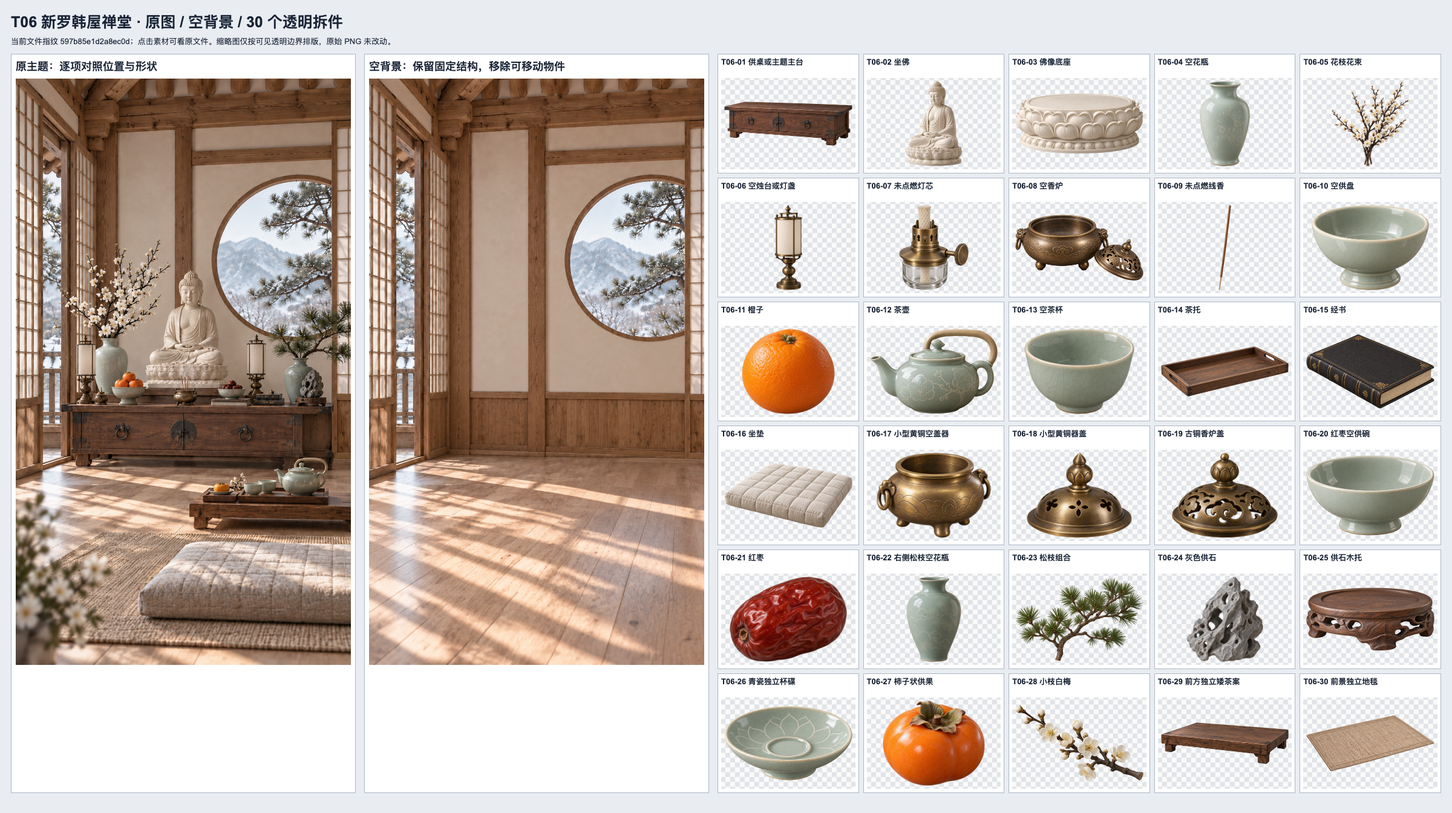
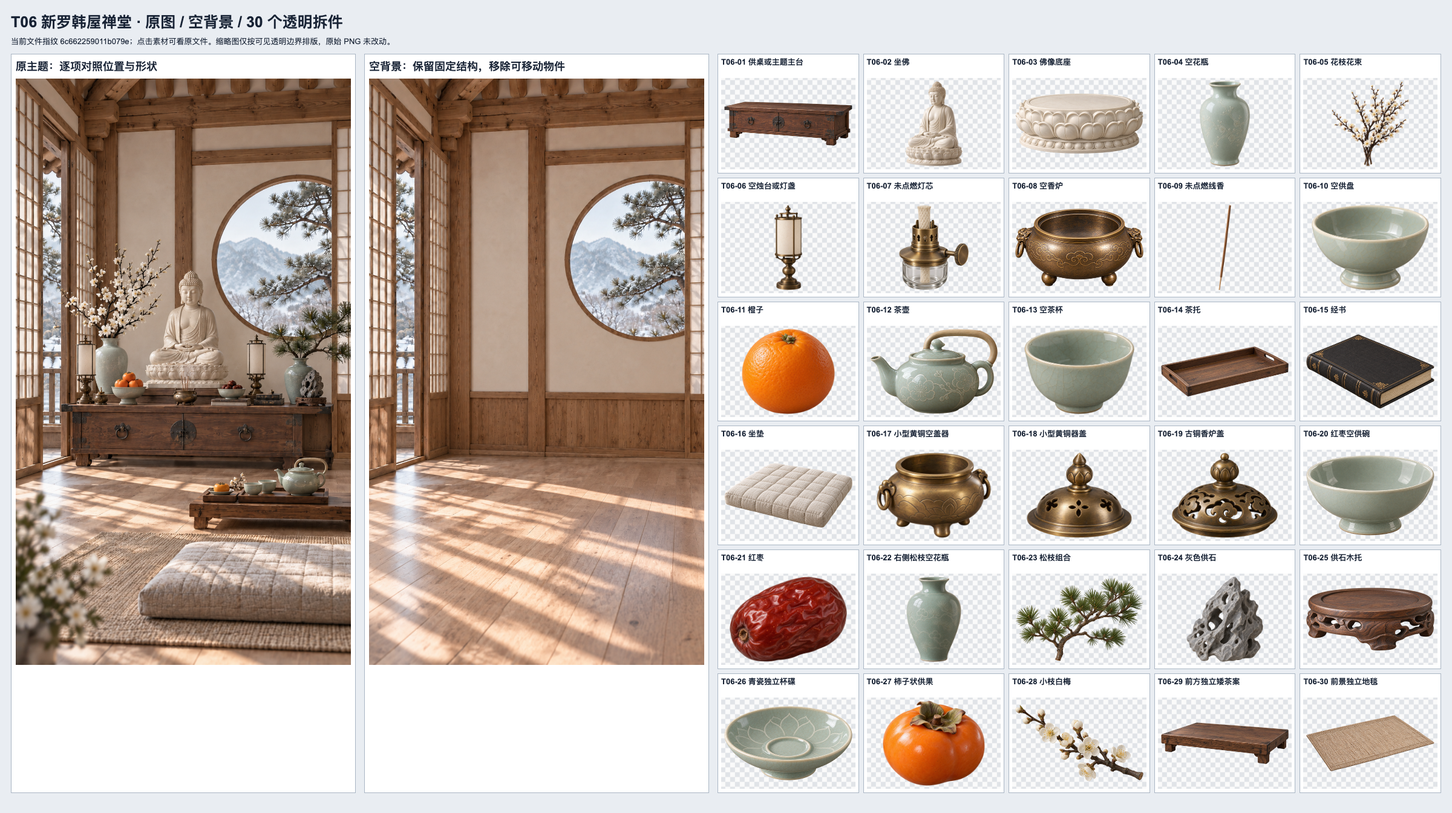
fix: publish first verified file corrections and HTTPS review details

Changed region(s): [[0.6875, 0.2498, 0.8125, 0.3435], [0.0625, 0.0312, 0.25, 0.0625]]

diff --git a/themes/T05/index.html b/themes/T05/index.html
@@ -4,6 +4,6 @@
     .scene{background:white;padding:7px;border:1px solid #aab6c4}.scene b{display:block;font-size:18px;margin-bottom:8px}.scene img{width:100%;height:1080px;object-fit:contain;object-position:top}
     .assets{display:grid;grid-template-columns:repeat(5,1fr);gap:7px;align-content:start}article{border:1px solid #aab6c4;background:white;height:198px;padding:5px;overflow:hidden}
     header{font-size:13px;font-weight:600;height:34px;line-height:16px}article a{display:block;height:151px;background:repeating-conic-gradient(#e1e4e8 0% 25%,#fafafa 0% 50%) 50% / 16px 16px}article img{width:100%;height:100%;object-fit:contain;padding:5px}
-    </style><h1>T05 兰纳柚木佛堂 · 原图 / 空背景 / 29 个透明拆件</h1>
-    <div class="note">当前文件指纹 14fb5777fe269d48；点击素材可看原文件。缩略图仅按可见透明边界排版，原始 PNG 未改动。</div>
-    <div class="layout"><section class="scene"><b>原主题：逐项对照位置与形状</b><img src="source.png"></section><section class="scene"><b>空背景：保留固定结构，移除可移动物件</b><img src="background.png"></section><section class="assets"><article><header>T05-01 供桌或主题主台</header><a href="objects/T05-01.png"><img src="thumbs/T05-01.png"></a></article><article><header>T05-02 坐佛</header><a href="objects/T05-02.png"><img src="thumbs/T05-02.png"></a></article><article><header>T05-04 空花瓶</header><a href="objects/T05-04.png"><img src="thumbs/T05-04.png"></a></article><article><header>T05-05 花枝花束</header><a href="objects/T05-05.png"><img src="thumbs/T05-05.png"></a></article><article><header>T05-06 空烛台或灯盏</header><a href="objects/T05-06.png"><img src="thumbs/T05-06.png"></a></article><article><header>T05-07 未点燃蜡芯 · 补绘功能件</header><a href="objects/T05-07.png"><img src="thumbs/T05-07.png"></a></article><article><header>T05-08 空香炉</header><a href="objects/T05-08.png"><img src="thumbs/T05-08.png"></a></article><article><header>T05-09 未点燃线香</header><a href="objects/T05-09.png"><img src="thumbs/T05-09.png"></a></article><article><header>T05-10 空供盘</header><a href="objects/T05-10.png"><img src="thumbs/T05-10.png"></a></article><article><header>T05-11 橙子</header><a href="objects/T05-11.png"><img src="thumbs/T05-11.png"></a></article><article><header>T05-12 茶壶</header><a href="objects/T05-12.png"><img src="thumbs/T05-12.png"></a></article><article><header>T05-13 空茶杯</header><a href="objects/T05-13.png"><img src="thumbs/T05-13.png"></a></article><article><header>T05-14 茶托</header><a href="objects/T05-14.png"><img src="thumbs/T05-14.png"></a></article><article><header>T05-16 坐垫</header><a href="objects/T05-16.png"><img src="thumbs/T05-16.png"></a></article><article><header>T05-17 雕木金饰背屏</header><a href="objects/T05-17.png"><img src="thumbs/T05-17.png"></a></article><article><header>T05-18 悬挂古铜空灯笼</header><a href="objects/T05-18.png"><img src="thumbs/T05-18.png"></a></article><article><header>T05-19 右侧莲花空瓶</header><a href="objects/T05-19.png"><img src="thumbs/T05-19.png"></a></article><article><header>T05-20 粉莲绿叶花束</header><a href="objects/T05-20.png"><img src="thumbs/T05-20.png"></a></article><article><header>T05-21 白花空供钵</header><a href="objects/T05-21.png"><img src="thumbs/T05-21.png"></a></article><article><header>T05-22 小簇白色供花</header><a href="objects/T05-22.png"><img src="thumbs/T05-22.png"></a></article><article><header>T05-23 绿色柑橘果</header><a href="objects/T05-23.png"><img src="thumbs/T05-23.png"></a></article><article><header>T05-24 单朵白色供花</header><a href="objects/T05-24.png"><img src="thumbs/T05-24.png"></a></article><article><header>T05-25 绿金流苏桌旗</header><a href="objects/T05-25.png"><img src="thumbs/T05-25.png"></a></article><article><header>T05-26 金铜独立杯碟</header><a href="objects/T05-26.png"><img src="thumbs/T05-26.png"></a></article><article><header>T05-27 前景空水钵</header><a href="objects/T05-27.png"><img src="thumbs/T05-27.png"></a></article><article><header>T05-28 漂浮粉莲花</header><a href="objects/T05-28.png"><img src="thumbs/T05-28.png"></a></article><article><header>T05-29 独立荷叶</header><a href="objects/T05-29.png"><img src="thumbs/T05-29.png"></a></article><article><header>T05-30 天然编织地席</header><a href="objects/T05-30.png"><img src="thumbs/T05-30.png"></a></article><article><header>T05-31 右前水钵静水表面图层 · 原位图层</header><a href="objects/T05-31.png"><img src="thumbs/T05-31.png"></a></article></section></div></html>
+    </style><h1>T05 兰纳柚木佛堂 · 原图 / 空背景 / 30 个透明拆件</h1>
+    <div class="note">当前文件指纹 a1679535a5bbbeff；点击素材可看原文件。缩略图仅按可见透明边界排版，原始 PNG 未改动。</div>
+    <div class="layout"><section class="scene"><b>原主题：逐项对照位置与形状</b><img src="source.png"></section><section class="scene"><b>空背景：保留固定结构，移除可移动物件</b><img src="background.png"></section><section class="assets"><article><header>T05-01 供桌或主题主台</header><a href="objects/T05-01.png"><img src="thumbs/T05-01.png"></a></article><article><header>T05-02 坐佛</header><a href="objects/T05-02.png"><img src="thumbs/T05-02.png"></a></article><article><header>T05-04 空花瓶</header><a href="objects/T05-04.png"><img src="thumbs/T05-04.png"></a></article><article><header>T05-05 花枝花束</header><a href="objects/T05-05.png"><img src="thumbs/T05-05.png"></a></article><article><header>T05-06 空烛台或灯盏</header><a href="objects/T05-06.png"><img src="thumbs/T05-06.png"></a></article><article><header>T05-07 未点燃蜡芯 · 补绘功能件</header><a href="objects/T05-07.png"><img src="thumbs/T05-07.png"></a></article><article><header>T05-08 空香炉</header><a href="objects/T05-08.png"><img src="thumbs/T05-08.png"></a></article><article><header>T05-09 未点燃线香</header><a href="objects/T05-09.png"><img src="thumbs/T05-09.png"></a></article><article><header>T05-10 空供盘</header><a href="objects/T05-10.png"><img src="thumbs/T05-10.png"></a></article><article><header>T05-11 橙子</header><a href="objects/T05-11.png"><img src="thumbs/T05-11.png"></a></article><article><header>T05-12 茶壶</header><a href="objects/T05-12.png"><img src="thumbs/T05-12.png"></a></article><article><header>T05-13 空茶杯</header><a href="objects/T05-13.png"><img src="thumbs/T05-13.png"></a></article><article><header>T05-14 茶托</header><a href="objects/T05-14.png"><img src="thumbs/T05-14.png"></a></article><article><header>T05-16 坐垫</header><a href="objects/T05-16.png"><img src="thumbs/T05-16.png"></a></article><article><header>T05-17 雕木金饰背屏</header><a href="objects/T05-17.png"><img src="thumbs/T05-17.png"></a></article><article><header>T05-18 悬挂古铜空灯笼</header><a href="objects/T05-18.png"><img src="thumbs/T05-18.png"></a></article><article><header>T05-19 右侧莲花空瓶</header><a href="objects/T05-19.png"><img src="thumbs/T05-19.png"></a></article><article><header>T05-20 粉莲绿叶花束</header><a href="objects/T05-20.png"><img src="thumbs/T05-20.png"></a></article><article><header>T05-21 白花空供钵</header><a href="objects/T05-21.png"><img src="thumbs/T05-21.png"></a></article><article><header>T05-22 小簇白色供花</header><a href="objects/T05-22.png"><img src="thumbs/T05-22.png"></a></article><article><header>T05-23 绿色柑橘果</header><a href="objects/T05-23.png"><img src="thumbs/T05-23.png"></a></article><article><header>T05-24 单朵白色供花</header><a href="objects/T05-24.png"><img src="thumbs/T05-24.png"></a></article><article><header>T05-25 绿金流苏桌旗</header><a href="objects/T05-25.png"><img src="thumbs/T05-25.png"></a></article><article><header>T05-26 金铜独立杯碟</header><a href="objects/T05-26.png"><img src="thumbs/T05-26.png"></a></article><article><header>T05-27 前景空水钵</header><a href="objects/T05-27.png"><img src="thumbs/T05-27.png"></a></article><article><header>T05-28 漂浮粉莲花</header><a href="objects/T05-28.png"><img src="thumbs/T05-28.png"></a></article><article><header>T05-29 独立荷叶</header><a href="objects/T05-29.png"><img src="thumbs/T05-29.png"></a></article><article><header>T05-30 天然编织地席</header><a href="objects/T05-30.png"><img src="thumbs/T05-30.png"></a></article><article><header>T05-31 右前水钵静水表面图层 · 原位图层</header><a href="objects/T05-31.png"><img src="thumbs/T05-31.png"></a></article><article><header>T05-32 左下近景白花绿叶图层 · 原位图层</header><a href="objects/T05-32.png"><img src="thumbs/T05-32.png"></a></article></section></div></html>

diff --git a/themes/T06/index.html b/themes/T06/index.html
@@ -5,5 +5,5 @@
     .assets{display:grid;grid-template-columns:repeat(5,1fr);gap:7px;align-content:start}article{border:1px solid #aab6c4;background:white;height:198px;padding:5px;overflow:hidden}
     header{font-size:13px;font-weight:600;height:34px;line-height:16px}article a{display:block;height:151px;background:repeating-conic-gradient(#e1e4e8 0% 25%,#fafafa 0% 50%) 50% / 16px 16px}article img{width:100%;height:100%;object-fit:contain;padding:5px}
     </style><h1>T06 新罗韩屋禅堂 · 原图 / 空背景 / 30 个透明拆件</h1>
-    <div class="note">当前文件指纹 597b85e1d2a8ec0d；点击素材可看原文件。缩略图仅按可见透明边界排版，原始 PNG 未改动。</div>
+    <div class="note">当前文件指纹 6c662259011b079e；点击素材可看原文件。缩略图仅按可见透明边界排版，原始 PNG 未改动。</div>
     <div class="layout"><section class="scene"><b>原主题：逐项对照位置与形状</b><img src="source.png"></section><section class="scene"><b>空背景：保留固定结构，移除可移动物件</b><img src="background.png"></section><section class="assets"><article><header>T06-01 供桌或主题主台</header><a href="objects/T06-01.png"><img src="thumbs/T06-01.png"></a></article><article><header>T06-02 坐佛</header><a href="objects/T06-02.png"><img src="thumbs/T06-02.png"></a></article><article><header>T06-03 佛像底座</header><a href="objects/T06-03.png"><img src="thumbs/T06-03.png"></a></article><article><header>T06-04 空花瓶</header><a href="objects/T06-04.png"><img src="thumbs/T06-04.png"></a></article><article><header>T06-05 花枝花束</header><a href="objects/T06-05.png"><img src="thumbs/T06-05.png"></a></article><article><header>T06-06 空烛台或灯盏</header><a href="objects/T06-06.png"><img src="thumbs/T06-06.png"></a></article><article><header>T06-07 未点燃灯芯</header><a href="objects/T06-07.png"><img src="thumbs/T06-07.png"></a></article><article><header>T06-08 空香炉</header><a href="objects/T06-08.png"><img src="thumbs/T06-08.png"></a></article><article><header>T06-09 未点燃线香</header><a href="objects/T06-09.png"><img src="thumbs/T06-09.png"></a></article><article><header>T06-10 空供盘</header><a href="objects/T06-10.png"><img src="thumbs/T06-10.png"></a></article><article><header>T06-11 橙子</header><a href="objects/T06-11.png"><img src="thumbs/T06-11.png"></a></article><article><header>T06-12 茶壶</header><a href="objects/T06-12.png"><img src="thumbs/T06-12.png"></a></article><article><header>T06-13 空茶杯</header><a href="objects/T06-13.png"><img src="thumbs/T06-13.png"></a></article><article><header>T06-14 茶托</header><a href="objects/T06-14.png"><img src="thumbs/T06-14.png"></a></article><article><header>T06-15 经书</header><a href="objects/T06-15.png"><img src="thumbs/T06-15.png"></a></article><article><header>T06-16 坐垫</header><a href="objects/T06-16.png"><img src="thumbs/T06-16.png"></a></article><article><header>T06-17 小型黄铜空盖器</header><a href="objects/T06-17.png"><img src="thumbs/T06-17.png"></a></article><article><header>T06-18 小型黄铜器盖</header><a href="objects/T06-18.png"><img src="thumbs/T06-18.png"></a></article><article><header>T06-19 古铜香炉盖</header><a href="objects/T06-19.png"><img src="thumbs/T06-19.png"></a></article><article><header>T06-20 红枣空供碗</header><a href="objects/T06-20.png"><img src="thumbs/T06-20.png"></a></article><article><header>T06-21 红枣</header><a href="objects/T06-21.png"><img src="thumbs/T06-21.png"></a></article><article><header>T06-22 右侧松枝空花瓶</header><a href="objects/T06-22.png"><img src="thumbs/T06-22.png"></a></article><article><header>T06-23 松枝组合</header><a href="objects/T06-23.png"><img src="thumbs/T06-23.png"></a></article><article><header>T06-24 灰色供石</header><a href="objects/T06-24.png"><img src="thumbs/T06-24.png"></a></article><article><header>T06-25 供石木托</header><a href="objects/T06-25.png"><img src="thumbs/T06-25.png"></a></article><article><header>T06-26 青瓷独立杯碟</header><a href="objects/T06-26.png"><img src="thumbs/T06-26.png"></a></article><article><header>T06-27 柿子状供果</header><a href="objects/T06-27.png"><img src="thumbs/T06-27.png"></a></article><article><header>T06-28 小枝白梅</header><a href="objects/T06-28.png"><img src="thumbs/T06-28.png"></a></article><article><header>T06-29 前方独立矮茶案</header><a href="objects/T06-29.png"><img src="thumbs/T06-29.png"></a></article><article><header>T06-30 前景独立地毯</header><a href="objects/T06-30.png"><img src="thumbs/T06-30.png"></a></article></section></div></html>

diff --git a/themes/T09/index.html b/themes/T09/index.html
@@ -5,5 +5,5 @@
     .assets{display:grid;grid-template-columns:repeat(5,1fr);gap:7px;align-content:start}article{border:1px solid #aab6c4;background:white;height:198px;padding:5px;overflow:hidden}
     header{font-size:13px;font-weight:600;height:34px;line-height:16px}article a{display:block;height:151px;background:repeating-conic-gradient(#e1e4e8 0% 25%,#fafafa 0% 50%) 50% / 16px 16px}article img{width:100%;height:100%;object-fit:contain;padding:5px}
     </style><h1>T09 唐风朱砂金殿 · 原图 / 空背景 / 29 个透明拆件</h1>
-    <div class="note">当前文件指纹 b11d99dc0ad07669；点击素材可看原文件。缩略图仅按可见透明边界排版，原始 PNG 未改动。</div>
+    <div class="note">当前文件指纹 1be98462e4d8b7ad；点击素材可看原文件。缩略图仅按可见透明边界排版，原始 PNG 未改动。</div>
     <div class="layout"><section class="scene"><b>原主题：逐项对照位置与形状</b><img src="source.png"></section><section class="scene"><b>空背景：保留固定结构，移除可移动物件</b><img src="background.png"></section><section class="assets"><article><header>T09-01 供桌或主题主台</header><a href="objects/T09-01.png"><img src="thumbs/T09-01.png"></a></article><article><header>T09-02 坐佛</header><a href="objects/T09-02.png"><img src="thumbs/T09-02.png"></a></article><article><header>T09-03 佛像底座</header><a href="objects/T09-03.png"><img src="thumbs/T09-03.png"></a></article><article><header>T09-04 空花瓶</header><a href="objects/T09-04.png"><img src="thumbs/T09-04.png"></a></article><article><header>T09-05 花枝花束</header><a href="objects/T09-05.png"><img src="thumbs/T09-05.png"></a></article><article><header>T09-06 空烛台或灯盏</header><a href="objects/T09-06.png"><img src="thumbs/T09-06.png"></a></article><article><header>T09-07 未点燃红蜡烛</header><a href="objects/T09-07.png"><img src="thumbs/T09-07.png"></a></article><article><header>T09-08 空香炉</header><a href="objects/T09-08.png"><img src="thumbs/T09-08.png"></a></article><article><header>T09-09 未点燃线香</header><a href="objects/T09-09.png"><img src="thumbs/T09-09.png"></a></article><article><header>T09-10 空供盘</header><a href="objects/T09-10.png"><img src="thumbs/T09-10.png"></a></article><article><header>T09-11 粉桃</header><a href="objects/T09-11.png"><img src="thumbs/T09-11.png"></a></article><article><header>T09-12 茶壶</header><a href="objects/T09-12.png"><img src="thumbs/T09-12.png"></a></article><article><header>T09-13 空茶杯</header><a href="objects/T09-13.png"><img src="thumbs/T09-13.png"></a></article><article><header>T09-14 茶托</header><a href="objects/T09-14.png"><img src="thumbs/T09-14.png"></a></article><article><header>T09-16 坐垫</header><a href="objects/T09-16.png"><img src="thumbs/T09-16.png"></a></article><article><header>T09-17 左侧深蓝金纹垂幡</header><a href="objects/T09-17.png"><img src="thumbs/T09-17.png"></a></article><article><header>T09-18 右侧深蓝金纹垂幡</header><a href="objects/T09-18.png"><img src="thumbs/T09-18.png"></a></article><article><header>T09-19 悬挂黑金空灯笼</header><a href="objects/T09-19.png"><img src="thumbs/T09-19.png"></a></article><article><header>T09-20 白莲花空灯架</header><a href="objects/T09-20.png"><img src="thumbs/T09-20.png"></a></article><article><header>T09-21 莲花灯未点燃内芯</header><a href="objects/T09-21.png"><img src="thumbs/T09-21.png"></a></article><article><header>T09-22 右侧金色空花瓶</header><a href="objects/T09-22.png"><img src="thumbs/T09-22.png"></a></article><article><header>T09-23 右侧粉红白花束</header><a href="objects/T09-23.png"><img src="thumbs/T09-23.png"></a></article><article><header>T09-24 中央金色香炉盖</header><a href="objects/T09-24.png"><img src="thumbs/T09-24.png"></a></article><article><header>T09-25 右侧金色桃盘</header><a href="objects/T09-25.png"><img src="thumbs/T09-25.png"></a></article><article><header>T09-26 前方独立低供案</header><a href="objects/T09-26.png"><img src="thumbs/T09-26.png"></a></article><article><header>T09-27 红蓝金纹流苏桌旗</header><a href="objects/T09-27.png"><img src="thumbs/T09-27.png"></a></article><article><header>T09-28 黑金独立杯碟</header><a href="objects/T09-28.png"><img src="thumbs/T09-28.png"></a></article><article><header>T09-29 红蓝金纹地毯</header><a href="objects/T09-29.png"><img src="thumbs/T09-29.png"></a></article><article><header>T09-30 悬灯未点燃内芯</header><a href="objects/T09-30.png"><img src="thumbs/T09-30.png"></a></article></section></div></html>

diff --git a/themes/T16/index.html b/themes/T16/index.html
@@ -5,5 +5,5 @@
     .assets{display:grid;grid-template-columns:repeat(5,1fr);gap:7px;align-content:start}article{border:1px solid #aab6c4;background:white;height:198px;padding:5px;overflow:hidden}
     header{font-size:13px;font-weight:600;height:34px;line-height:16px}article a{display:block;height:151px;background:repeating-conic-gradient(#e1e4e8 0% 25%,#fafafa 0% 50%) 50% / 16px 16px}article img{width:100%;height:100%;object-fit:contain;padding:5px}
     </style><h1>T16 都市夜景黑金佛堂 · 原图 / 空背景 / 27 个透明拆件</h1>
-    <div class="note">当前文件指纹 9366709a49c3985a；点击素材可看原文件。缩略图仅按可见透明边界排版，原始 PNG 未改动。</div>
+    <div class="note">当前文件指纹 35b1a07c249b2df5；点击素材可看原文件。缩略图仅按可见透明边界排版，原始 PNG 未改动。</div>
     <div class="layout"><section class="scene"><b>原主题：逐项对照位置与形状</b><img src="source.png"></section><section class="scene"><b>空背景：保留固定结构，移除可移动物件</b><img src="background.png"></section><section class="assets"><article><header>T16-01 供桌或主题主台</header><a href="objects/T16-01.png"><img src="thumbs/T16-01.png"></a></article><article><header>T16-02 坐佛</header><a href="objects/T16-02.png"><img src="thumbs/T16-02.png"></a></article><article><header>T16-03 佛像底座</header><a href="objects/T16-03.png"><img src="thumbs/T16-03.png"></a></article><article><header>T16-04 空花瓶</header><a href="objects/T16-04.png"><img src="thumbs/T16-04.png"></a></article><article><header>T16-05 花枝花束</header><a href="objects/T16-05.png"><img src="thumbs/T16-05.png"></a></article><article><header>T16-06 圆柱格栅空灯体</header><a href="objects/T16-06.png"><img src="thumbs/T16-06.png"></a></article><article><header>T16-07 未点燃灯内芯</header><a href="objects/T16-07.png"><img src="thumbs/T16-07.png"></a></article><article><header>T16-08 空香炉</header><a href="objects/T16-08.png"><img src="thumbs/T16-08.png"></a></article><article><header>T16-09 未点燃线香</header><a href="objects/T16-09.png"><img src="thumbs/T16-09.png"></a></article><article><header>T16-10 空供盘</header><a href="objects/T16-10.png"><img src="thumbs/T16-10.png"></a></article><article><header>T16-11 橙子</header><a href="objects/T16-11.png"><img src="thumbs/T16-11.png"></a></article><article><header>T16-12 茶壶</header><a href="objects/T16-12.png"><img src="thumbs/T16-12.png"></a></article><article><header>T16-13 空茶杯</header><a href="objects/T16-13.png"><img src="thumbs/T16-13.png"></a></article><article><header>T16-14 茶托</header><a href="objects/T16-14.png"><img src="thumbs/T16-14.png"></a></article><article><header>T16-15 经书</header><a href="objects/T16-15.png"><img src="thumbs/T16-15.png"></a></article><article><header>T16-16 坐垫</header><a href="objects/T16-16.png"><img src="thumbs/T16-16.png"></a></article><article><header>T16-17 圆形深色金属背板</header><a href="objects/T16-17.png"><img src="thumbs/T16-17.png"></a></article><article><header>T16-18 圆柱灯独立底座</header><a href="objects/T16-18.png"><img src="thumbs/T16-18.png"></a></article><article><header>T16-19 左前深木矮柜</header><a href="objects/T16-19.png"><img src="thumbs/T16-19.png"></a></article><article><header>T16-20 矮柜上深色空花盆</header><a href="objects/T16-20.png"><img src="thumbs/T16-20.png"></a></article><article><header>T16-21 矮柜上完整绿植</header><a href="objects/T16-21.png"><img src="thumbs/T16-21.png"></a></article><article><header>T16-22 左缘前景空花盆</header><a href="objects/T16-22.png"><img src="thumbs/T16-22.png"></a></article><article><header>T16-23 左缘前景绿植</header><a href="objects/T16-23.png"><img src="thumbs/T16-23.png"></a></article><article><header>T16-24 深金属独立香炉盖</header><a href="objects/T16-24.png"><img src="thumbs/T16-24.png"></a></article><article><header>T16-25 深色独立杯碟</header><a href="objects/T16-25.png"><img src="thumbs/T16-25.png"></a></article><article><header>T16-26 浅色封面书册</header><a href="objects/T16-26.png"><img src="thumbs/T16-26.png"></a></article><article><header>T16-27 深色矩形织毯</header><a href="objects/T16-27.png"><img src="thumbs/T16-27.png"></a></article></section></div></html>

diff --git a/themes/T14/index.html b/themes/T14/index.html
@@ -5,5 +5,5 @@
     .assets{display:grid;grid-template-columns:repeat(5,1fr);gap:7px;align-content:start}article{border:1px solid #aab6c4;background:white;height:198px;padding:5px;overflow:hidden}
     header{font-size:13px;font-weight:600;height:34px;line-height:16px}article a{display:block;height:151px;background:repeating-conic-gradient(#e1e4e8 0% 25%,#fafafa 0% 50%) 50% / 16px 16px}article img{width:100%;height:100%;object-fit:contain;padding:5px}
     </style><h1>T14 北欧原木静修室 · 原图 / 空背景 / 26 个透明拆件</h1>
-    <div class="note">当前文件指纹 8c2e0af351616c2a；点击素材可看原文件。缩略图仅按可见透明边界排版，原始 PNG 未改动。</div>
+    <div class="note">当前文件指纹 4fde60d8ebf05457；点击素材可看原文件。缩略图仅按可见透明边界排版，原始 PNG 未改动。</div>
     <div class="layout"><section class="scene"><b>原主题：逐项对照位置与形状</b><img src="source.png"></section><section class="scene"><b>空背景：保留固定结构，移除可移动物件</b><img src="background.png"></section><section class="assets"><article><header>T14-01 供桌或主题主台</header><a href="objects/T14-01.png"><img src="thumbs/T14-01.png"></a></article><article><header>T14-02 坐佛</header><a href="objects/T14-02.png"><img src="thumbs/T14-02.png"></a></article><article><header>T14-03 佛像底座</header><a href="objects/T14-03.png"><img src="thumbs/T14-03.png"></a></article><article><header>T14-04 空花瓶</header><a href="objects/T14-04.png"><img src="thumbs/T14-04.png"></a></article><article><header>T14-05 花枝花束</header><a href="objects/T14-05.png"><img src="thumbs/T14-05.png"></a></article><article><header>T14-06 空烛台或灯盏</header><a href="objects/T14-06.png"><img src="thumbs/T14-06.png"></a></article><article><header>T14-07 未点燃白柱蜡烛</header><a href="objects/T14-07.png"><img src="thumbs/T14-07.png"></a></article><article><header>T14-08 空香炉</header><a href="objects/T14-08.png"><img src="thumbs/T14-08.png"></a></article><article><header>T14-09 未点燃线香</header><a href="objects/T14-09.png"><img src="thumbs/T14-09.png"></a></article><article><header>T14-10 空供盘</header><a href="objects/T14-10.png"><img src="thumbs/T14-10.png"></a></article><article><header>T14-11 青苹果</header><a href="objects/T14-11.png"><img src="thumbs/T14-11.png"></a></article><article><header>T14-12 茶壶</header><a href="objects/T14-12.png"><img src="thumbs/T14-12.png"></a></article><article><header>T14-13 空茶杯</header><a href="objects/T14-13.png"><img src="thumbs/T14-13.png"></a></article><article><header>T14-14 茶托</header><a href="objects/T14-14.png"><img src="thumbs/T14-14.png"></a></article><article><header>T14-16 坐垫</header><a href="objects/T14-16.png"><img src="thumbs/T14-16.png"></a></article><article><header>T14-17 米陶独立香炉盖</header><a href="objects/T14-17.png"><img src="thumbs/T14-17.png"></a></article><article><header>T14-18 木质独立杯碟</header><a href="objects/T14-18.png"><img src="thumbs/T14-18.png"></a></article><article><header>T14-19 右侧未点燃白蜡烛</header><a href="objects/T14-19.png"><img src="thumbs/T14-19.png"></a></article><article><header>T14-20 右侧独立烛碟</header><a href="objects/T14-20.png"><img src="thumbs/T14-20.png"></a></article><article><header>T14-21 米色浮雕壁饰</header><a href="objects/T14-21.png"><img src="thumbs/T14-21.png"></a></article><article><header>T14-22 左后大型空陶盆</header><a href="objects/T14-22.png"><img src="thumbs/T14-22.png"></a></article><article><header>T14-23 盆栽完整树体</header><a href="objects/T14-23.png"><img src="thumbs/T14-23.png"></a></article><article><header>T14-24 右前落地空花瓶</header><a href="objects/T14-24.png"><img src="thumbs/T14-24.png"></a></article><article><header>T14-25 右前落地花枝组</header><a href="objects/T14-25.png"><img src="thumbs/T14-25.png"></a></article><article><header>T14-26 天然纤维地毯</header><a href="objects/T14-26.png"><img src="thumbs/T14-26.png"></a></article><article><header>T14-27 右侧斑点米陶空杯</header><a href="objects/T14-27.png"><img src="thumbs/T14-27.png"></a></article></section></div></html>

diff --git a/themes/T11/index.html b/themes/T11/index.html
@@ -5,5 +5,5 @@
     .assets{display:grid;grid-template-columns:repeat(5,1fr);gap:7px;align-content:start}article{border:1px solid #aab6c4;background:white;height:198px;padding:5px;overflow:hidden}
     header{font-size:13px;font-weight:600;height:34px;line-height:16px}article a{display:block;height:151px;background:repeating-conic-gradient(#e1e4e8 0% 25%,#fafafa 0% 50%) 50% / 16px 16px}article img{width:100%;height:100%;object-fit:contain;padding:5px}
     </style><h1>T11 江南雨窗佛堂 · 原图 / 空背景 / 26 个透明拆件</h1>
-    <div class="note">当前文件指纹 c58438380481e1ed；点击素材可看原文件。缩略图仅按可见透明边界排版，原始 PNG 未改动。</div>
+    <div class="note">当前文件指纹 8dc9628808831425；点击素材可看原文件。缩略图仅按可见透明边界排版，原始 PNG 未改动。</div>
     <div class="layout"><section class="scene"><b>原主题：逐项对照位置与形状</b><img src="source.png"></section><section class="scene"><b>空背景：保留固定结构，移除可移动物件</b><img src="background.png"></section><section class="assets"><article><header>T11-01 供桌或主题主台</header><a href="objects/T11-01.png"><img src="thumbs/T11-01.png"></a></article><article><header>T11-02 坐佛</header><a href="objects/T11-02.png"><img src="thumbs/T11-02.png"></a></article><article><header>T11-03 佛像底座</header><a href="objects/T11-03.png"><img src="thumbs/T11-03.png"></a></article><article><header>T11-04 空花瓶</header><a href="objects/T11-04.png"><img src="thumbs/T11-04.png"></a></article><article><header>T11-05 花枝花束</header><a href="objects/T11-05.png"><img src="thumbs/T11-05.png"></a></article><article><header>T11-06 空烛台或灯盏</header><a href="objects/T11-06.png"><img src="thumbs/T11-06.png"></a></article><article><header>T11-07 未点燃白蜡烛</header><a href="objects/T11-07.png"><img src="thumbs/T11-07.png"></a></article><article><header>T11-08 空香炉</header><a href="objects/T11-08.png"><img src="thumbs/T11-08.png"></a></article><article><header>T11-09 未点燃线香</header><a href="objects/T11-09.png"><img src="thumbs/T11-09.png"></a></article><article><header>T11-10 空供盘</header><a href="objects/T11-10.png"><img src="thumbs/T11-10.png"></a></article><article><header>T11-11 橙子</header><a href="objects/T11-11.png"><img src="thumbs/T11-11.png"></a></article><article><header>T11-12 茶壶</header><a href="objects/T11-12.png"><img src="thumbs/T11-12.png"></a></article><article><header>T11-13 空茶杯</header><a href="objects/T11-13.png"><img src="thumbs/T11-13.png"></a></article><article><header>T11-14 茶托</header><a href="objects/T11-14.png"><img src="thumbs/T11-14.png"></a></article><article><header>T11-16 坐垫</header><a href="objects/T11-16.png"><img src="thumbs/T11-16.png"></a></article><article><header>T11-17 前方独立雕木供案</header><a href="objects/T11-17.png"><img src="thumbs/T11-17.png"></a></article><article><header>T11-18 旁置金属香炉盖</header><a href="objects/T11-18.png"><img src="thumbs/T11-18.png"></a></article><article><header>T11-19 白色带叶供花</header><a href="objects/T11-19.png"><img src="thumbs/T11-19.png"></a></article><article><header>T11-20 天然编织地席</header><a href="objects/T11-20.png"><img src="thumbs/T11-20.png"></a></article><article><header>T11-21 深木空落地灯</header><a href="objects/T11-21.png"><img src="thumbs/T11-21.png"></a></article><article><header>T11-22 落地灯未点燃内芯</header><a href="objects/T11-22.png"><img src="thumbs/T11-22.png"></a></article><article><header>T11-23 右侧深色空花盆</header><a href="objects/T11-23.png"><img src="thumbs/T11-23.png"></a></article><article><header>T11-24 右侧完整绿植</header><a href="objects/T11-24.png"><img src="thumbs/T11-24.png"></a></article><article><header>T11-25 右侧雕木花几</header><a href="objects/T11-25.png"><img src="thumbs/T11-25.png"></a></article><article><header>T11-26 水墨山水挂轴</header><a href="objects/T11-26.png"><img src="thumbs/T11-26.png"></a></article><article><header>T11-27 左侧果碗独立托盘</header><a href="objects/T11-27.png"><img src="thumbs/T11-27.png"></a></article></section></div></html>

diff --git a/README.md b/README.md
@@ -1,3 +1,11 @@
 # BuddhaHome image reviews
 
 App screenshots and authorized UI references for visual comparison. No source code, account data or tokens.
+
+## 20 套佛堂主题资产
+
+T02–T21 原尺寸透明物件、空背景、原主题图与整套对照截图。首轮已全部生成，仍在逐套查漏修正；文件存在不等于已验收。
+
+- [整套对照图与状态](reviews/themes/README.md)
+- [原尺寸素材目录](themes)
+- 每套 themes/Txx/manifest.json 列出全部PNG及SHA-256；index.html 可在下载后直接打开。
